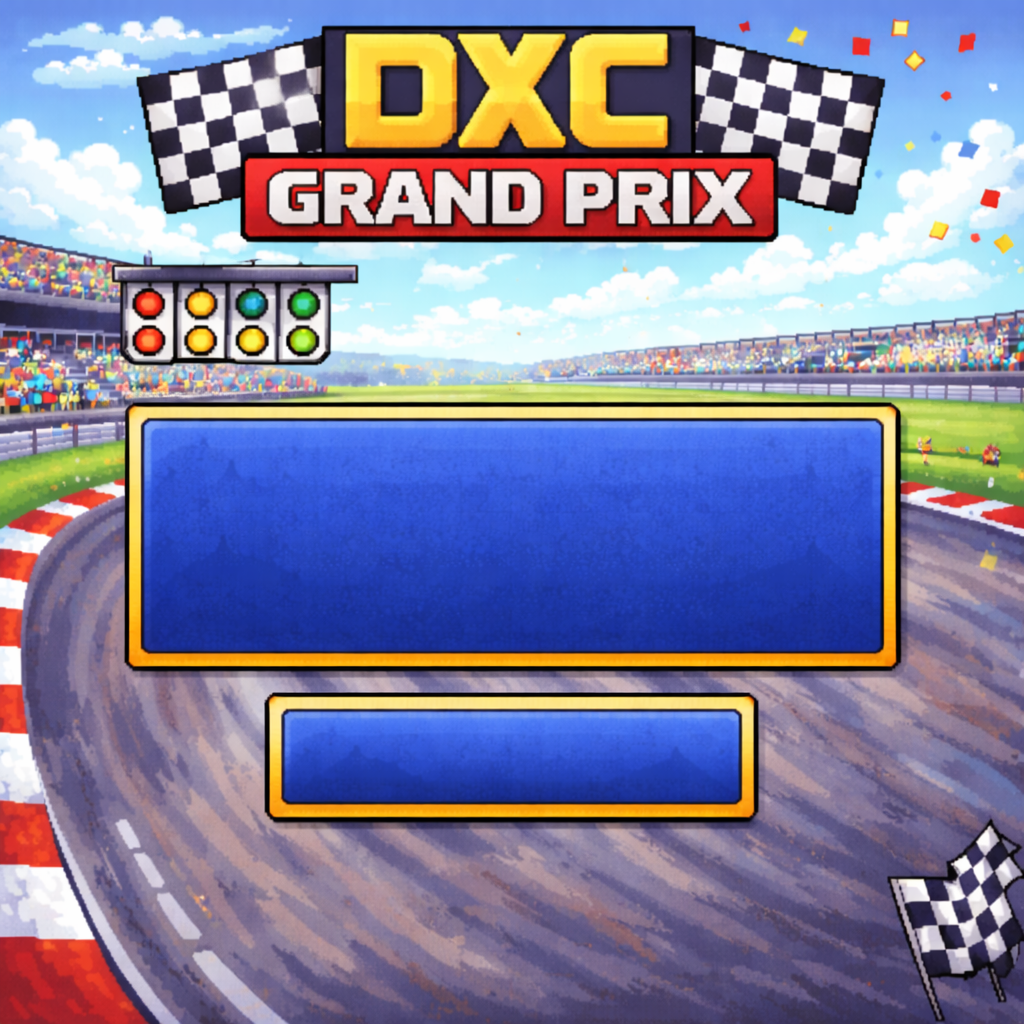
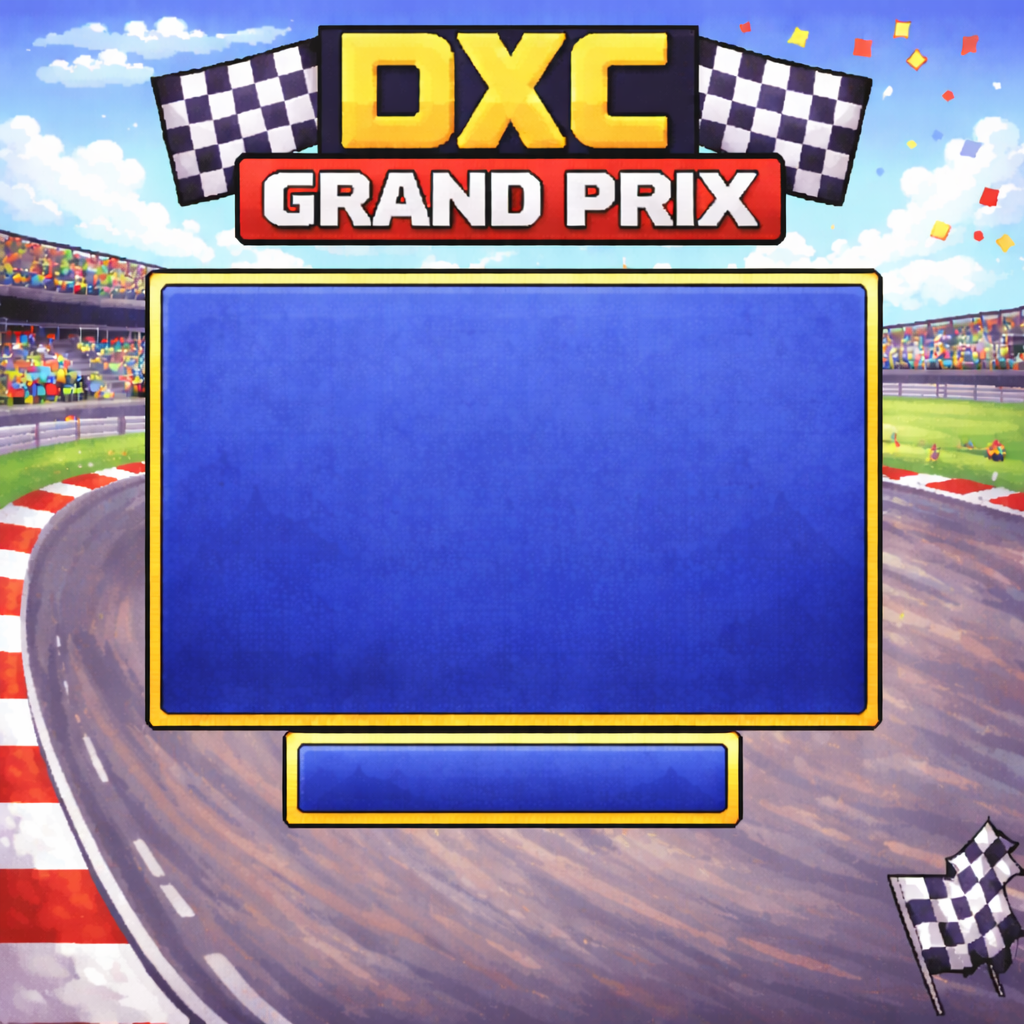
added Credits page into main menu

diff --git a/ui.py b/ui.py
@@ -7,6 +7,7 @@ import resources
 from resources import MENU, MENU2, MENU3, MENU4
 from pricing import price_build, RANGE, MODEL_BASE_PRICE, TRACK_MULT
 from tuning_registry import build_registry
+import webbrowser
 # --------------------------------------------------
 # Utilities
 # --------------------------------------------------
@@ -38,12 +39,18 @@ class Menu:
     def __init__(self, width=500, height=500):
         self.width = width
         self.height = height
+        self.titleFont = pygame.font.Font(None, 64)
+        self.textFont = pygame.font.Font(None, 32)
+        self.linkFont = pygame.font.Font(None, 32)
+        self.github_url = "https://github.com/DWandless/DFA_PathFinding_GrandPrix"
+        self.github_rect = None  # will store clickable area
+
 
         # MAIN MENU
         self.playButton = Button((width, height//2 + 25, 200, 50), "Play", BLUE, WHITE)
-        self.trainButton = Button((width, height//2 + 150, 200, 50), "Train NEAT", GRAY, WHITE)
-        self.page1Button = Button((width, height//2 + 275, 200, 50), "Page 1", GRAY, WHITE)
-        self.page2Button = Button((width, height//2 + 400, 200, 50), "Page 2", GRAY, WHITE)
+        self.page1Button = Button((width, height//2 + 150, 200, 50), "Page 1", GRAY, WHITE)
+        self.page2Button = Button((width, height//2 + 275, 200, 50), "Credits", GRAY, WHITE)
+        self.trainButton = Button((width, height//2 + 400, 200, 50), "Train NEAT", GRAY, WHITE)
         self.quitButton = Button((width, height//2 + 525, 200, 50), "Quit", GRAY, WHITE)
 
         # LEVEL SELECT
@@ -54,7 +61,7 @@ class Menu:
         self.level5Button = Button((width, height//2 + 525, 200, 50), "Level 5", GRAY, WHITE)
 
         # BACK BUTTON (used by Page1 / Page2)
-        self.backButton = Button((width/2 + 100, height//2 + 410, 200, 50), "Back", GRAY, WHITE)
+        self.backButton = Button((width/2 + 100, height//2 + 425, 200, 50), "Back", GRAY, WHITE)
 
     def disable_all_buttons(self):
         for btn in [
@@ -128,11 +135,56 @@ class Menu:
         self.disable_all_buttons()
         surface.blit(MENU2, (0, 0))
 
+        center_x = surface.get_width() // 2
+        y = 290
+
+        # ---- Title ----
+        title = self.titleFont.render("Credits", True, WHITE)
+        surface.blit(title, title.get_rect(center=(center_x, y)))
+
+        y += 50
+        # ---- Names ----
+        credits = [
+            "Game Design & Programming:",
+            "Drew Wandless, Ben Lopez, Nathan Miller",
+            "",
+            "AI & Pathfinding:",
+            "Harry Fox, Matthew Cartwright, Leo Elliott-Jackson",
+            "",
+            "Built with Pygame"
+        ]
+
+        for line in credits:
+            text = self.textFont.render(line, True, WHITE)
+            surface.blit(text, text.get_rect(center=(center_x, y)))
+            y += 36
+
+        y += 20
+
+        # ---- GitHub Link ----
+        link_text = self.linkFont.render("GitHub Repository", True, WHITE)
+        self.github_rect = link_text.get_rect(center=(center_x, y))
+        surface.blit(link_text, self.github_rect)
+
+        # underline to make it feel like a link
+        pygame.draw.line(
+            surface,
+            BLUE,
+            (self.github_rect.left, self.github_rect.bottom),
+            (self.github_rect.right, self.github_rect.bottom),
+            2
+        )
+
+        # ---- Back Button ----
         self.backButton.enabled = True
         self.backButton.draw(surface)
 
     # ---------------- EVENTS ----------------
     def handle_event(self, event):
+        if event.type == pygame.MOUSEBUTTONDOWN and event.button == 1:
+            if self.github_rect and self.github_rect.collidepoint(event.pos):
+                webbrowser.open(self.github_url)
+
         if self.playButton.handle_event(event):
             return "play"
         if self.trainButton.handle_event(event):
